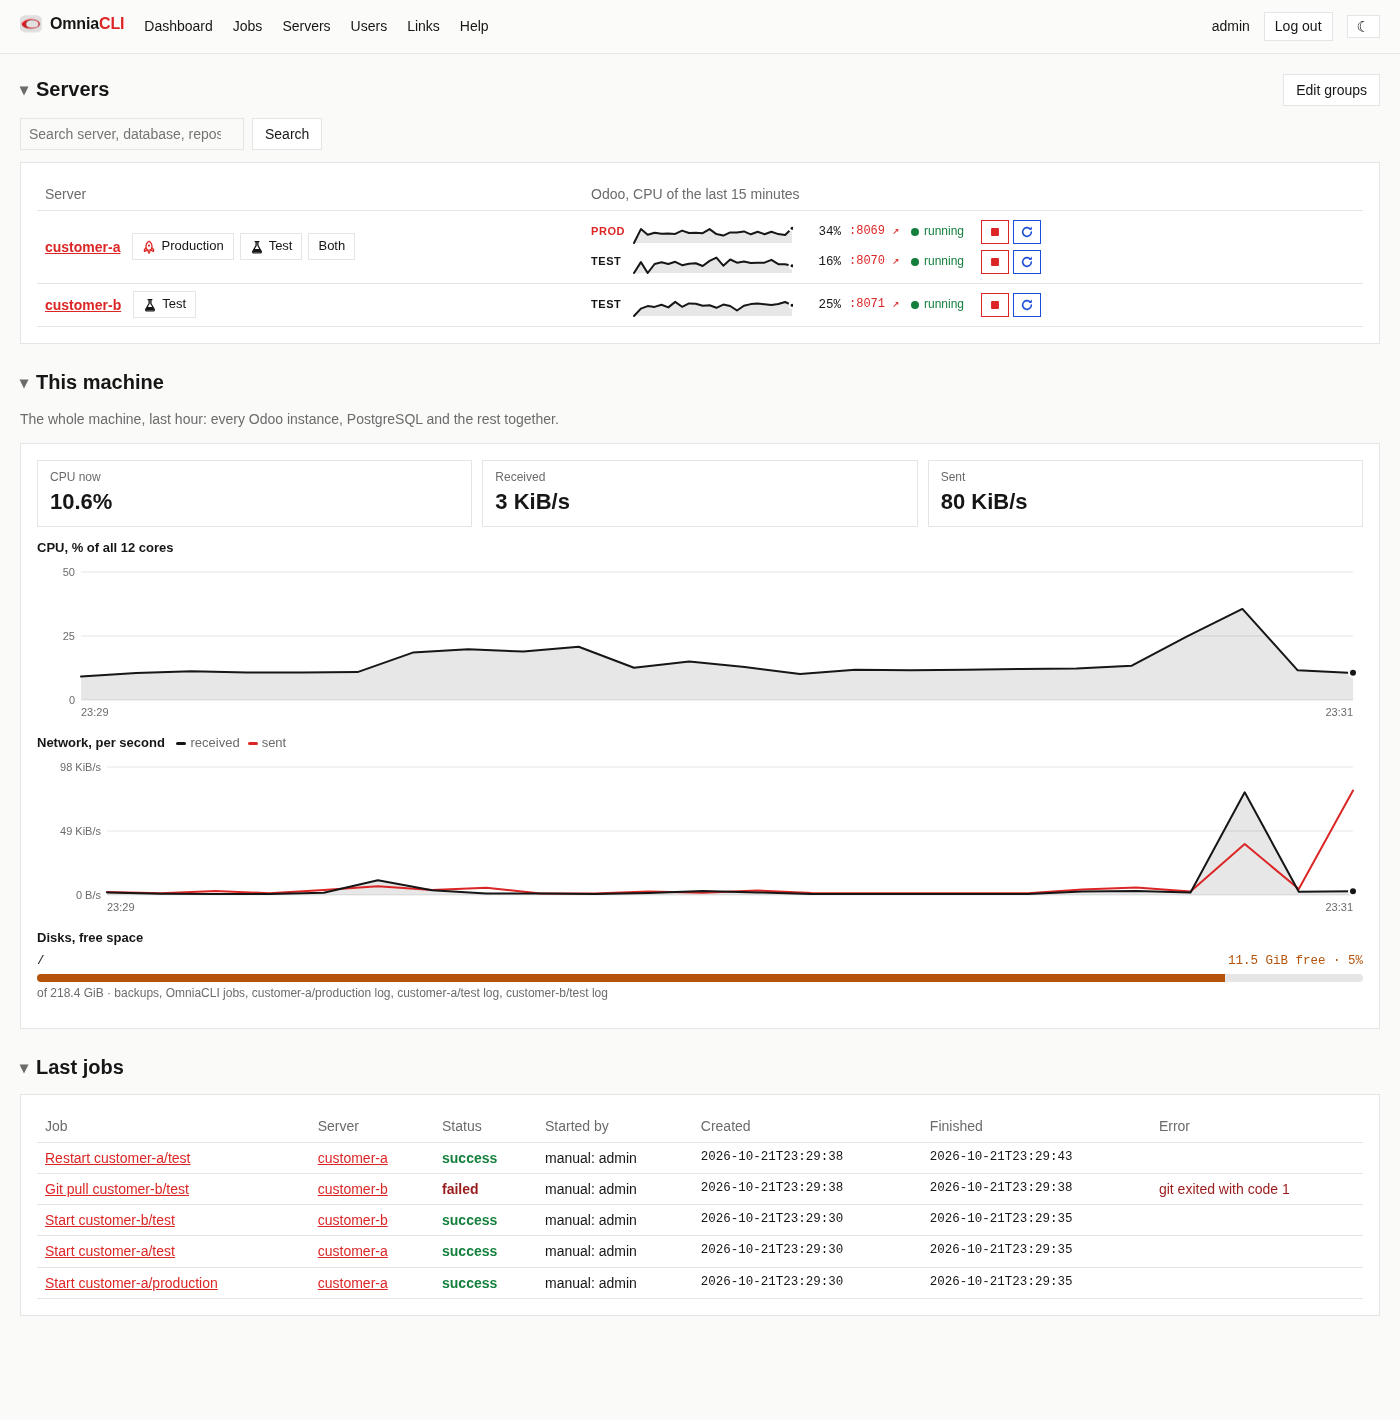
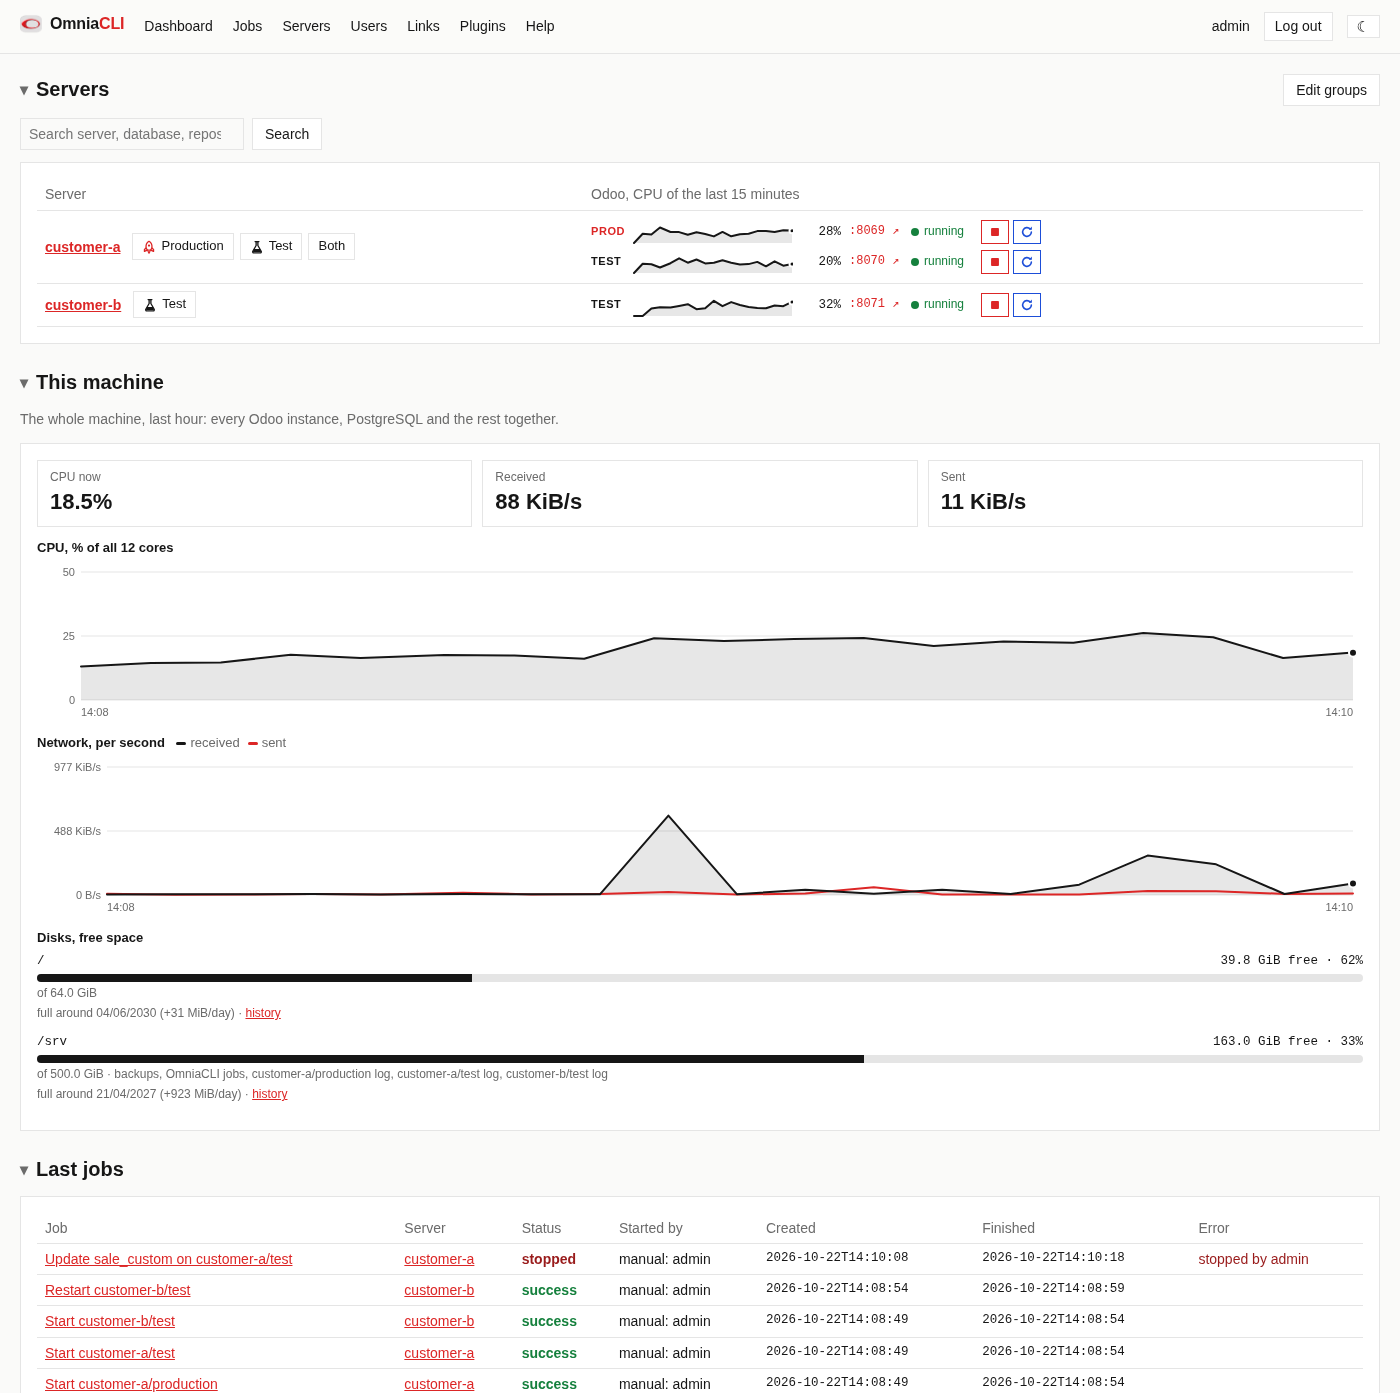
README: screenshots of the new pages and dialogs, configuration cases
docs/images: Dashboard and server page taken again (disk forecast, Copy
production to test), new Disks page, Update modules with the recent
choices, Copy production to test, a job stopped by an administrator; demo
data with invented servers and /srv paths.

README: Stop job, recent modules, run_as programs starting in /, the
dev_setup row back inside the MCP table, and "Configuration cases": the
problems met putting OmniaCLI on an existing Odoo 18 server (permissions of
configs and logs, repository ownership, git credentials, repository names,
the run_as working folder, submodules, sudo for systemctl, docutils
messages, self-signed certificates) with their cause and fix.

diff --git a/README.md b/README.md
@@ -11,10 +11,14 @@ database, an Odoo config file, a log file and a systemd service, an init.d
 script, or an Odoo that OmniaCLI starts itself.
 
 - **Dashboard**: every server with the state of its Odoo, Start / Stop /
-  Restart, its CPU, and the CPU, network and disks of the machine.
-- **Deploy**: git pull, update of the changed modules, restart; auto update
-  in a time window; merge of what was tested into production, after a backup.
-- **Backups** of database and filestore, to download.
+  Restart, its CPU, and the CPU, network and disks of the machine, with the
+  day each disk will be full.
+- **Deploy**: git pull (submodules included), update of the changed or chosen
+  modules, restart; auto update in a time window; merge of what was tested
+  into production, after a backup.
+- **Backups** of database and filestore, to download; **copy of production
+  into test**, neutralized.
+- **Jobs** shown live; an administrator stops one that hangs.
 - **Logs** in the browser, with an "errors only" filter.
 - **Links**: operate the OmniaCLI of other machines from your own.
 - **MCP**: AI clients (Claude Code and others) read, update test instances
@@ -52,10 +56,24 @@ charts each disk's used space with that forecast.
 
 ![The Dashboard](docs/images/dashboard.png)
 
+**Disks**: each disk's used space by day, with the dashed forecast up to the
+day it is full.
+
+![The Disks page](docs/images/disks.png)
+
 **A server**: production and test side by side, with their actions, load and
-live log.
+live log; *Merge test to production* and *Copy production to test* at the top.
 
 ![The page of a server](docs/images/server.png)
+
+**Update modules**: the changed modules or chosen ones. The last choices of
+modules of the instance come back as buttons (*Recent*).
+
+![The Update modules dialog](docs/images/update-dialog.png)
+
+**Copy production to test**: a new backup of production, or one already made.
+
+![The Copy production to test dialog](docs/images/copy-dialog.png)
 
 **A job**, and the **Servers** page where servers are added, tested and
 activated.
@@ -64,13 +82,18 @@ activated.
 
 ![The Servers page](docs/images/servers.png)
 
+**A job stopped by an administrator**: a module update that never ended,
+stopped with *Stop job*.
+
+![A stopped job](docs/images/job-stopped.png)
+
 ## What it does
 
 | Action | Production | Test | What runs |
 |---|---|---|---|
 | Git pull | ✓ | ✓ | `git pull --ff-only <remote> <branch>` in every repository, then `git submodule update --init --recursive` in those with submodules |
 | Git pull + restart | ✓ | ✓ | pull, `click-odoo-update` (only the changed modules), restart |
-| Update modules | ✓ | ✓ | a popup asks: the changed modules (`click-odoo-update`) or chosen ones (`odoo-bin -u … --stop-after-init --workers=0`), and whether to restart after |
+| Update modules | ✓ | ✓ | a popup asks: the changed modules (`click-odoo-update`) or chosen ones (`odoo-bin -u … --stop-after-init --workers=0`), and whether to restart after. The last 5 choices of modules of each instance are offered again; they are kept in the browser (`localStorage`), so each browser has its own |
 | Restart | ✓ | ✓ | the instance's systemd or init.d restart, or OmniaCLI's own start of `odoo-bin` (see below) |
 | Start, Stop | ✓ | ✓ | `systemctl start`/`stop` of a systemd service (each needs its sudoers line, the **Start/Stop permission** check prints them), or OmniaCLI's own Odoo; a stopped Odoo stays stopped for the auto update |
 | Backup | ✓ | ✓ | `click-odoo-backupdb` → `<backup_dir>/<server>/<role>/<db>_<timestamp>.zip` |
@@ -111,6 +134,14 @@ prepared before Test & activate. The job's log opens in a new tab.
 - **Jobs**: every action is a job. Its output, its status and its error are
   shown live in the web page, and the last 500 are kept in `jobs_dir`.
 - Only one job runs on an instance at a time; the others wait.
+- **Stop job** (admins, on the page of a queued or running job): for a job
+  that hangs or loops. The program it runs gets SIGTERM, with its whole
+  process group (pip's builds, Odoo's workers), and SIGKILL after 10 seconds.
+  The job ends as `stopped`, "stopped by <user>"; the steps after the stopped
+  one do not run (a stopped module update is not followed by the restart),
+  and what the job did before stays done. The instance is free for the next
+  job at once. With `run_as` the SIGKILL reaches only `sudo`: a program of
+  that user that ignores SIGTERM keeps running.
 
 ### Rules the actions follow
 
@@ -385,7 +416,9 @@ The user that runs OmniaCLI needs:
   user (PostgreSQL `peer` login on the socket included), and so are the
   filestore and the venv. git still runs as OmniaCLI's user. The venv's
   folder in sudoers allows its programs, `SETENV` passes `PYTHONPATH` (the
-  folder of `odoo-bin`); the **Run as** check prints the line:
+  folder of `odoo-bin`). These programs start in `/`, not in OmniaCLI's own
+  folder (`/var/lib/omniacli`, which that user cannot enter). The **Run as**
+  check prints the line:
 
   ```
   omniacli ALL=(odoo) NOPASSWD:SETENV: /opt/odoo/venvs/odoo18/bin/
@@ -404,6 +437,118 @@ The user that runs OmniaCLI needs:
 omniacli ALL=(root) NOPASSWD: /usr/bin/systemctl --no-ask-password restart odoo-customer-a
 omniacli ALL=(root) NOPASSWD: /etc/init.d/odoo-customer-a-test restart
 ```
+
+### Configuration cases
+
+Problems met putting OmniaCLI on an existing Odoo 18 server (Odoo as the
+systemd service of user `odoo`, instances with `run_as: odoo`), each with
+what the check or the job said, the cause and the fix. Paths are examples.
+
+**"Odoo config: Permission denied", "Log file … is not readable".** The
+checks run as `omniacli`. The Odoo configs were `640 odoo:odoo` and
+`/var/log/odoo` was `750 odoo:odoo`: readable files in a folder `omniacli`
+cannot enter are not readable either. Both are readable by group `odoo`, so:
+
+```bash
+sudo adduser omniacli odoo
+sudo -u omniacli head -c 1 /etc/odoo/odoo.conf; echo " $?"   # 0: readable
+sudo systemctl restart omniacli     # the service gets the new group only when it starts
+```
+
+`omniacli` then reads everything group `odoo` reads. To give it only these
+files, use ACLs instead (`setfacl -m u:omniacli:r <config>`,
+`setfacl -m u:omniacli:rx /var/log/odoo` and `setfacl -d -m u:omniacli:r
+/var/log/odoo` for the files logrotate creates). An Odoo config left `666`
+during tests is readable and writable by every user of the machine (its
+database password; an `addons_path` that runs their code as `odoo`): put it
+back to `640`.
+
+**"fatal: detected dubious ownership in repository".** The repositories
+belonged to `odoo` (`755`), and git runs as `omniacli`. `safe.directory` alone
+is not enough when `omniacli` cannot write there: the pull would then fail.
+Give OmniaCLI the repositories it manages:
+
+```bash
+sudo chown -R omniacli:odoo /opt/odoo/repos/customer
+sudo -u omniacli -H git -C /opt/odoo/repos/customer status --short
+```
+
+Odoo keeps reading the code (the folders stay `755`). From then on pull as
+`omniacli` (`sudo -u omniacli -H git …`), not as `odoo` or root. The first
+`git status` after the `chown` takes a while on a big repository (git
+refreshes its index): it is not stuck. Run every manual git command on these
+repositories as `omniacli` too, `git … remote -v` included: root gets the same
+"dubious ownership".
+
+**"remote origin branch 18.0 not reachable: could not read Username for
+'https://github.com': terminal prompts disabled".** `omniacli` had no git
+credentials, and OmniaCLI never lets git ask for them. A deploy key of
+`omniacli` on the GitHub repository, then the remote on SSH:
+
+```bash
+sudo -u omniacli -H mkdir -p -m 700 /var/lib/omniacli/.ssh
+sudo -u omniacli -H ssh-keygen -t ed25519 -N '' -f /var/lib/omniacli/.ssh/id_ed25519
+sudo -u omniacli -H sh -c 'ssh-keyscan github.com >> ~/.ssh/known_hosts'
+# add the .pub as a deploy key of the repository on GitHub
+sudo -u omniacli -H git -C /opt/odoo/repos/customer remote set-url origin git@github.com:<owner>/<repo>.git
+sudo -u omniacli -H git -C /opt/odoo/repos/customer ls-remote origin 18.0
+```
+
+A read-only key is enough for the checks and the pulls. *Merge test to
+production* pushes, so it needs **Allow write access**; where whoever merges
+the code brings it to production on GitHub, keep the key read-only and leave
+the merge to them (with a read-only key the button's push fails after the
+local merge, which then has to be undone by hand). Production and test clones
+of the same GitHub repository share one key.
+
+**"test repositories without a production repository of the same name".**
+*Merge test to production* pairs repositories by `name`: give the test
+repository the name of its production one (`customer` in both); path and
+branch stay different.
+
+**A module update fails with `PermissionError: … 'ezdxf.ini'`.** A program run
+as `odoo` started in OmniaCLI's folder, `/var/lib/omniacli` (`750`), and a
+library (ezdxf, imported by an Odoo module) looks for its ini file in the
+current folder. Since 2026.1.8 programs run as another user start in `/`.
+On an older version, `sudo chmod 751 /var/lib/omniacli` works around it; put
+it back to `750` after the upgrade.
+
+**A repository stays " M lib/three.js" after `git reset --hard`.** That path
+is a git submodule (a library inside an Odoo module), never initialised on
+the server: a reset does not touch submodules, and the check counts a
+submodule off its commit as an uncommitted change. `git submodule update
+--init` fixes it. Since 2026.1.9 OmniaCLI does it after every pull and merge
+(see [Rules the actions follow](#rules-the-actions-follow)); the submodules'
+remotes must be readable by `omniacli` without a prompt.
+
+**"Failed to restart odoo.service: Interactive authentication required".**
+The restart ran `systemctl` without `sudo`: the instance's restart had
+`sudo: false`. Turn **Use sudo -n** on in the server form, and allow the
+commands in sudoers with the full path `command -v systemctl` prints:
+
+```
+omniacli ALL=(root) NOPASSWD: /usr/bin/systemctl --no-ask-password restart odoo.service
+omniacli ALL=(root) NOPASSWD: /usr/bin/systemctl --no-ask-password start odoo.service
+omniacli ALL=(root) NOPASSWD: /usr/bin/systemctl --no-ask-password stop odoo.service
+```
+
+`sudo -u omniacli sudo -n -l /usr/bin/systemctl --no-ask-password restart
+odoo.service` prints the command when the line matches. The start and stop
+lines are for the Start and Stop buttons and *Copy production to test*;
+the **Start/Stop permission** check says which are missing.
+
+**`<string>:38: (ERROR/3) Unexpected indentation` in an update job.** These
+are docutils messages about a module's badly indented RST description: the
+update goes on. When it fails, the job shows where Odoo stopped
+(`Error: while parsing …/data/….xml`), the reason (the traceback) is in the
+Odoo log, which the **Log** page shows once `omniacli` can read it.
+
+**A link or an MCP client to an OmniaCLI behind a self-signed certificate.**
+The linking OmniaCLI verifies it with the link's **CA file**: the server's
+certificate itself (with its IP in `subjectAltName`), copied to the linking
+machine and readable by `omniacli` there. Claude Code runs on Node, which
+does not use that file: start it with
+`NODE_EXTRA_CA_CERTS=<that certificate>`.
 
 ## Odoo started by OmniaCLI (restart type `process`)
 
@@ -447,11 +592,11 @@ provides: OmniaCLI installed by hand on Python 3.9 runs without it.
 | `list_backups` | (admin token) an instance's backups, each with its download path |
 | `read_server` | (admin token) a server's whole configuration, active or draft |
 | `add_draft_server` | (admin token) a new server, always a **draft**: it goes live only with Test & activate on the web |
+| `dev_setup` | what a client needs to rebuild an instance locally: remote URLs (without credentials), branches, commits, `addons_path` as repository folders, Odoo and Python versions, the Odoo config options without secrets nor server paths, and the backups to download |
 
 With an admin token `dev_setup`, `backup` and `list_backups` also reach the
 draft servers (saved complete), and their backups download with that token;
 every other tool works on the active servers only.
-| `dev_setup` | what a client needs to rebuild an instance locally: remote URLs (without credentials), branches, commits, `addons_path` as repository folders, Odoo and Python versions, the Odoo config options without secrets nor server paths, and the backups to download |
 
 Access is by bearer token, never by the users' passwords. Create one per
 client on the **Users** page (the token is shown once), or by hand: add its
